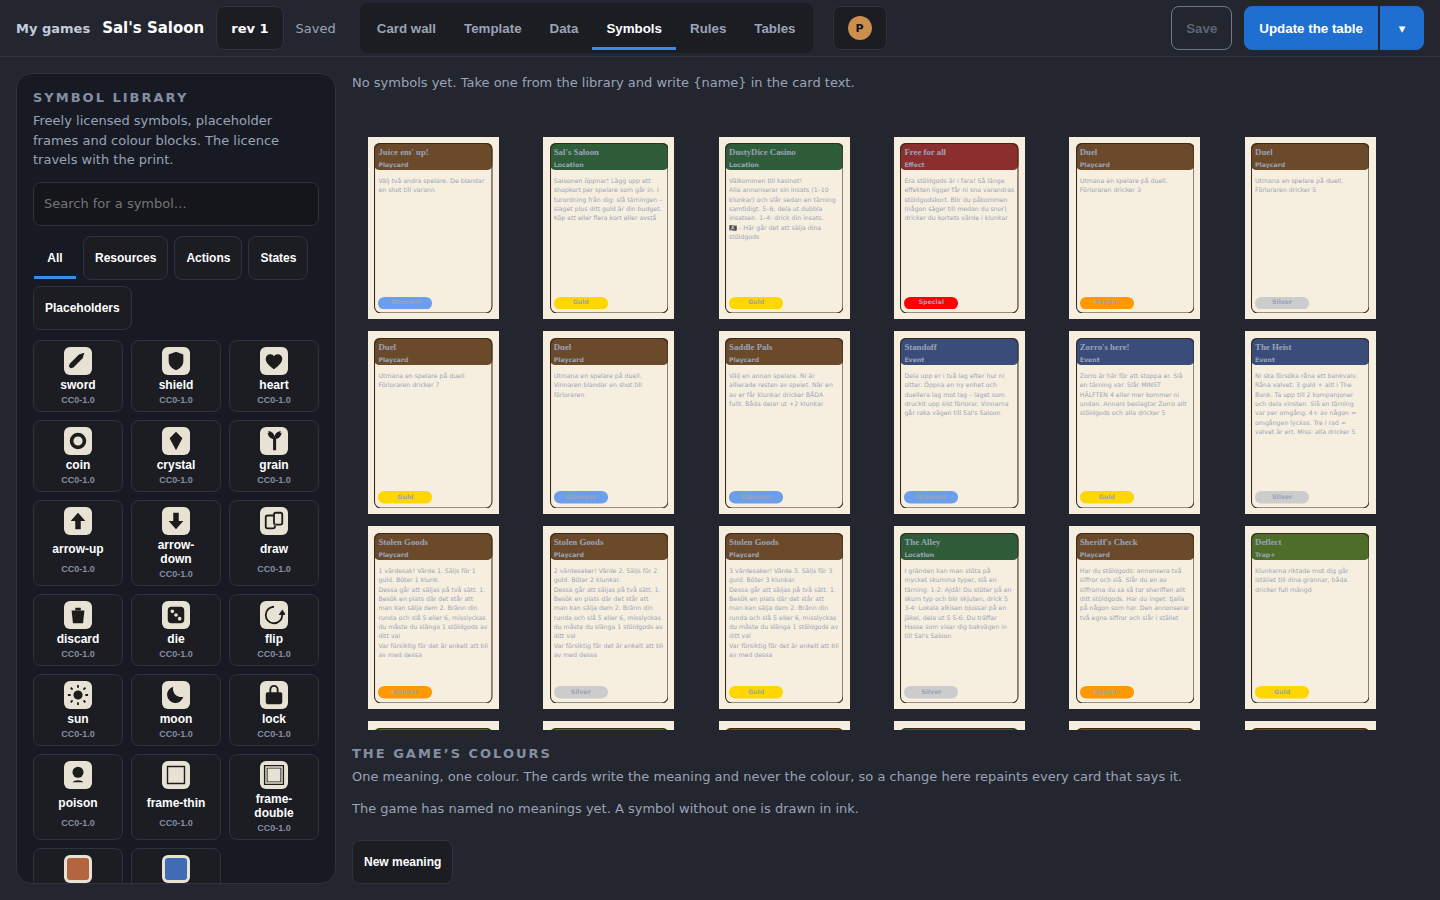
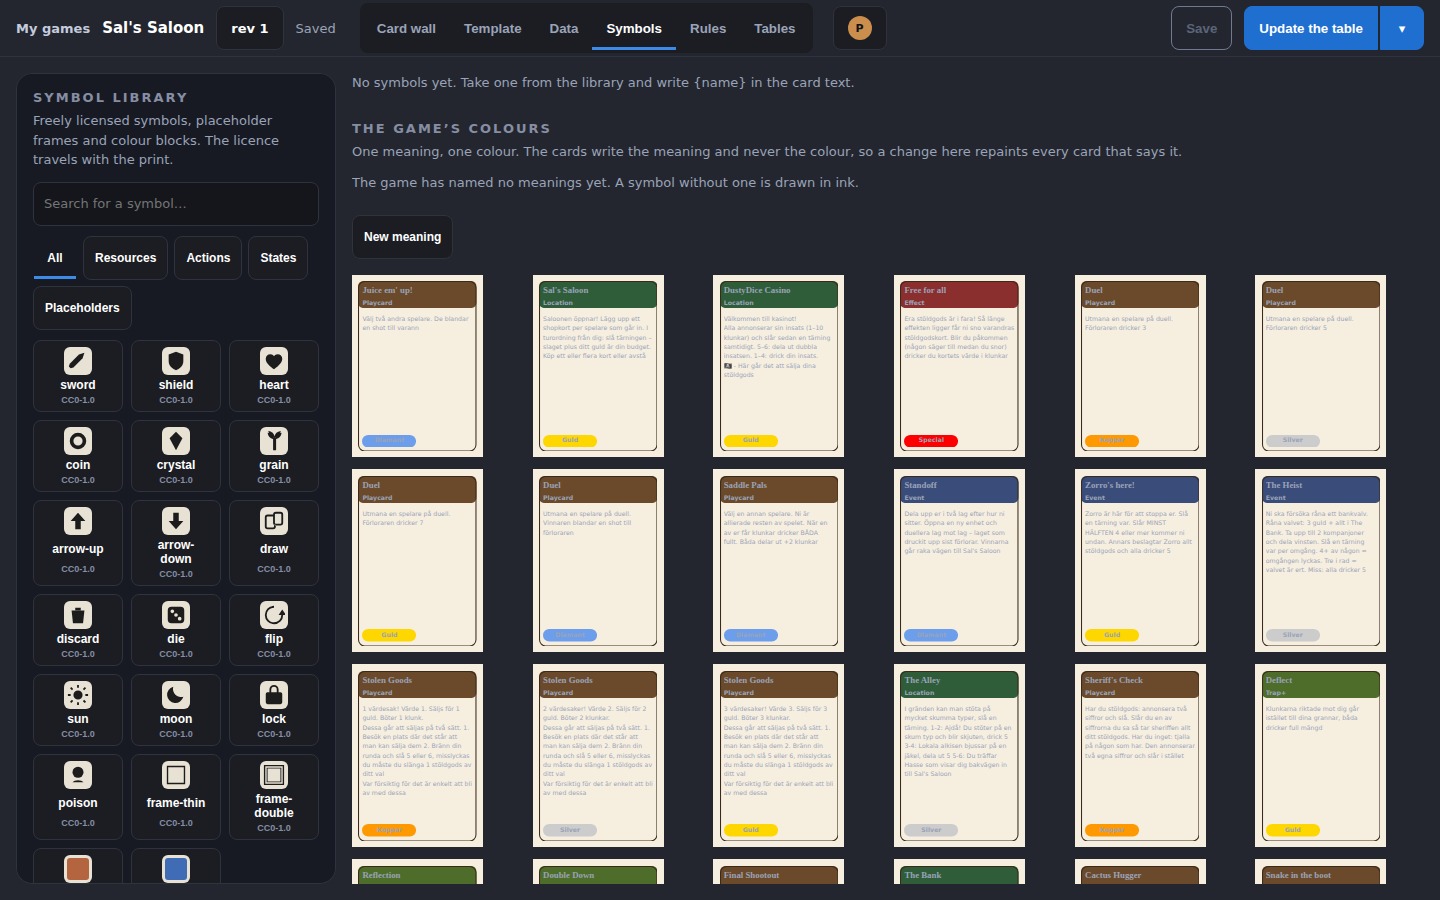
Väggens plats i rutnätet hör till vyn, inte till väggen
`.byd-wall` bar `grid-column: 1; grid-row: 2` — sin plats i kortväggens eget
rutnät — på själva väggen. Symbolpanelen ritar samma lek i en kolumn av sitt
eget, och där la regeln väggen i samma rutnätsrad som spelets färger: de två
ritades ovanpå varandra, och väggen klämdes från sin egen höjd till 610 px så
att sista kortraden kapades på mitten. Placeringen är nu skriven mot
`.byd-wall-view`, och symbolkolumnen är den som skrollar.

Claude-Session: https://claude.ai/code/session_014AUxvdBu9ETzVKNrpw9HxX

diff --git a/packages/web/src/editor/editor.css b/packages/web/src/editor/editor.css
@@ -539,7 +539,12 @@
 .byd-wall-check-detail p { margin: 0; color: #cfd5e3; font-size: 12px; line-height: 1.5; }
 .byd-wall-check-detail span { color: var(--byd-editor-quiet); font: 11px ui-monospace, monospace; }
 
-.byd-wall { grid-column: 1; grid-row: 2; min-height: 0; overflow: auto; scrollbar-width: thin; padding: var(--byd-gutter); display: grid; grid-template-columns: repeat(auto-fill, minmax(var(--byd-wall-card, 150px), 1fr)); gap: var(--byd-s3); align-content: start; }
+.byd-wall { display: grid; grid-template-columns: repeat(auto-fill, minmax(var(--byd-wall-card, 150px), 1fr)); gap: var(--byd-s3); align-content: start; }
+/* Where it stands in the wall tab: the second row of the view, and the one thing there that
+   scrolls. The placement is written against the view and not against the wall itself, because the
+   symbol panel draws the same deck in a column of its own — where `grid-row: 2` put it in the same
+   row as the game's colours, one on top of the other. */
+.byd-wall-view > .byd-wall { grid-column: 1; grid-row: 2; min-height: 0; overflow: auto; scrollbar-width: thin; padding: var(--byd-gutter); }
 .byd-wall-card { position: relative; border-radius: 8px; cursor: pointer; }
 .byd-wall-card[aria-selected='true'] { outline: 3px solid var(--byd-editor-primary-mark); outline-offset: 3px; }
 .byd-wall-copies, .byd-wall-warnings { position: absolute; border-radius: 999px; font-size: 11px; font-weight: 700; padding: 1px 6px; }
@@ -1383,7 +1388,12 @@
 /* A symbol reaches the card as an image, so it cannot take the colour of the text around it:
    it is drawn dark, and needs a light chip to be seen against the editor's dark surfaces. */
 .byd-symbols img { width: 22px; height: 22px; padding: 3px; border-radius: 6px; background: #e8e2d4; }
-.byd-symbols-main { display: grid; gap: 16px; }
+/* The deck beside the library, scrolling as one column. `align-content: start` is what keeps the
+   rows their own height: as a grid with a fixed height and no word on the matter, the three rows
+   shared the 811 px between them and the wall was squeezed from its natural height to 610, which
+   cut the last row of cards through the middle. */
+.byd-symbols-main { display: grid; gap: var(--byd-s4); align-content: start; }
+
 .byd-symbols-empty { color: #9aa3b8; }
 .byd-symbols-set ul { list-style: none; margin: 0; padding: 0; display: flex; flex-wrap: wrap; gap: 10px; }
 .byd-symbols-set li { display: flex; align-items: center; gap: 8px; padding: 6px 10px; border-radius: 10px; background: var(--byd-editor-panel-bg); border: 1px solid #2f333d; }

diff --git a/docs/ux-audits/2026-09-16.md b/docs/ux-audits/2026-09-16.md
@@ -234,6 +234,10 @@ Två saker till, som föll ut av arbetet:
 - Bord vid 1024 hade fått en filt på cirka 320 px med zonnamnen ovanpå varandra. Bordslistans
   kolumn smalnar därför till 240 px under 1280; zonlistan behåller sina 320, eftersom den vid 240
   sköt sina egna ×-knappar utanför kanten.
+- `.byd-wall` bar `grid-column: 1; grid-row: 2`, alltså sin plats i kortväggens rutnät, på själva
+  väggen i stället för på vyn runt den. Symbolpanelen ritar samma lek i en egen kolumn, och där la
+  regeln väggen i samma rutnätsrad som spelets färger — den ena ovanpå den andra. Placeringen är
+  nu skriven mot `.byd-wall-view`.
 
 ## Kvalitetskontroller
 
